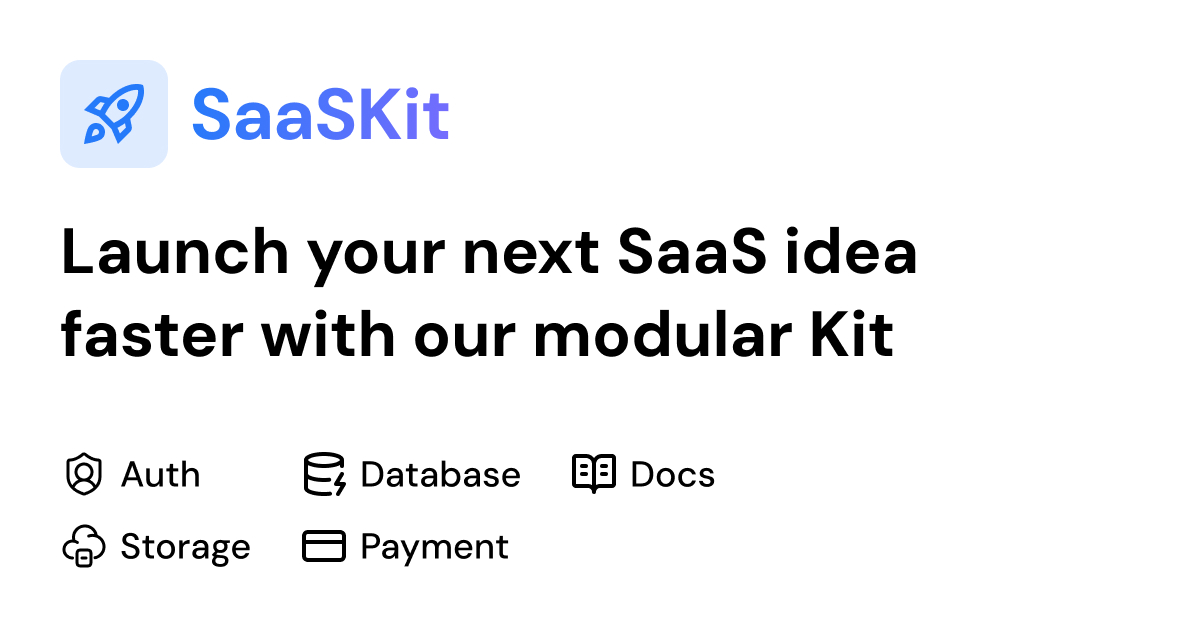
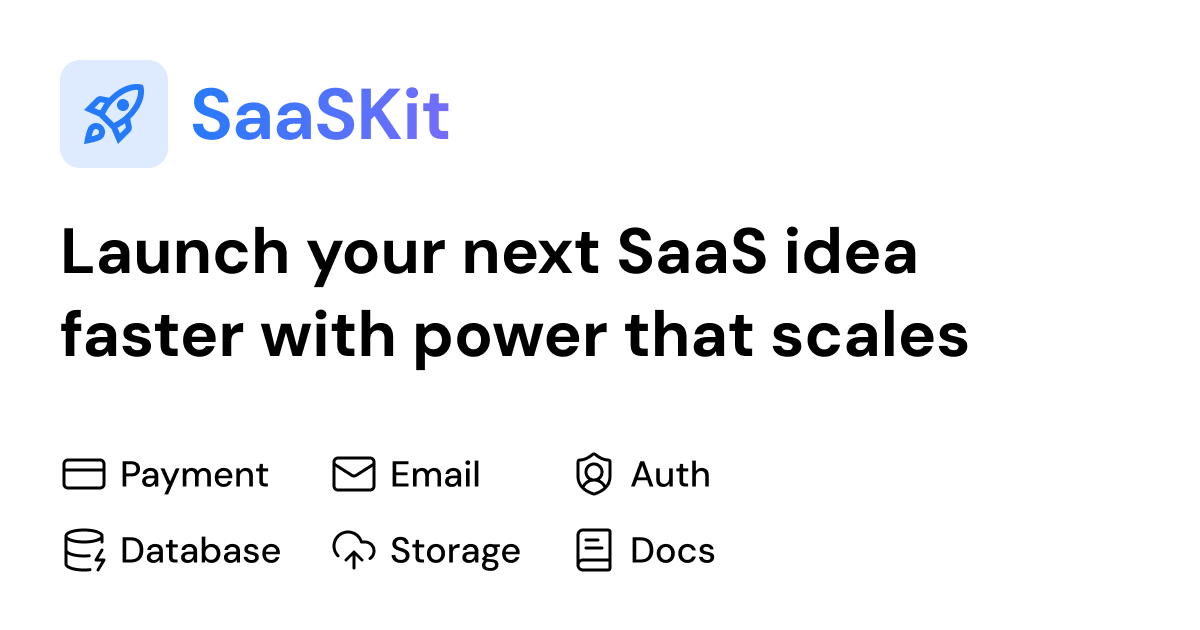
refactor(auth): replace custom session handling with better-auth integration

diff --git a/src/components/landing/Hero.tsx b/src/components/landing/Hero.tsx
@@ -12,14 +12,15 @@ export const Hero = () => {
                         className="border-base-300 flex items-center gap-2 rounded-full border px-3 py-0.5 text-sm font-medium"
                         href="#pricing">
                         <div className="bg-base-content/20 size-1.5 rounded-full"></div>
-                        <p>Rebrand + OSS Starter</p>
+                        <p>Think, Ship, Grow</p>
                     </a>
-                    <h1 className="mt-4 text-3xl leading-[1.25] font-bold tracking-tight text-balance sm:text-4xl md:text-5xl 2xl:text-7xl">
-                        Launch your next SaaS idea faster with our modular kit
+                    <h1 className="mt-4 text-3xl leading-tight font-bold tracking-tight text-balance sm:text-4xl md:text-5xl 2xl:text-7xl">
+                        Launch your next SaaS idea faster with power that scales
                     </h1>
-                    <h2 className="text-base-content/70 mt-4 text-sm text-balance sm:mt-6 sm:text-lg md:text-xl lg:mt-8">
-                        A production-ready TanStack starter with type-safe modules for core SaaS features. Skip the
-                        complex setup and launch your next great idea in just days.
+                    <h2 className="text-base-content/80 mt-4 max-w-6xl text-sm text-balance sm:mt-6 sm:text-lg md:text-xl lg:mt-8">
+                        Your all in one foundation for SaaS, built on{" "}
+                        <span className="text-base-content font-semibold">TanStack Start</span> with ready modules that
+                        help you launch in days instead of months for steady growth
                     </h2>
                     <div className="mt-6 flex flex-wrap justify-center gap-4 max-sm:items-center sm:mt-8 xl:mt-12 xl:gap-6 2xl:mt-16">
                         <Link to={Links.home} className="btn btn-primary btn-lg shadow-primary/10 gap-3 shadow-xl">

diff --git a/src/components/auth/SignInForm.tsx b/src/components/auth/SignInForm.tsx
@@ -8,7 +8,6 @@ import { z } from "zod";
 import { FormInput } from "@/components/forms/FormInput.tsx";
 import { FormPasswordInput } from "@/components/forms/FormPasswordInput.tsx";
 import { authClient } from "@/features/auth/client.ts";
-import { saveSessionUser } from "@/features/auth/server.ts";
 import { Links } from "@/lib/links.ts";
 
 const schema = z.object({
@@ -35,12 +34,6 @@ export const SignInForm = () => {
             startTransition(async () => {
                 const { data, error } = await authClient.signIn.email(value);
                 if (data) {
-                    await saveSessionUser({
-                        data: {
-                            user: data.user,
-                            token: data.token,
-                        },
-                    });
                     await navigate({ to: Links.home });
                 } else if (error) {
                     if (error.code === "INVALID_EMAIL") {

diff --git a/src/features/auth/server.ts b/src/features/auth/server.ts
@@ -1,22 +1,9 @@
 import { createServerFn } from "@tanstack/react-start";
+import { isAuthenticated } from "@/features/auth/authenticated.ts";
 
-import { authMiddleware } from "@/features/auth/middleware.ts";
-import { SessionData, useAppSession } from "@/lib/session.ts";
 
 export const getSessionUserOrRedirect = createServerFn({ method: "GET" })
-    .middleware([authMiddleware])
+    .middleware([isAuthenticated])
     .handler(async ({ context }) => {
         return { user: context.user };
     });
-
-export const saveSessionUser = createServerFn({ method: "POST" })
-    .inputValidator((data: SessionData) => data)
-    .handler(async ({ data }) => {
-        const session = await useAppSession();
-        await session.update(data);
-    });
-
-export const removeSessionUser = createServerFn({ method: "POST" }).handler(async () => {
-    const session = await useAppSession();
-    await session.clear();
-});

diff --git a/src/features/auth/authenticated.ts b/src/features/auth/authenticated.ts
@@ -1,0 +1,22 @@
+import { redirect } from "@tanstack/react-router";
+import { createMiddleware } from "@tanstack/react-start";
+import { getRequest, getRequestHeader } from "@tanstack/react-start/server";
+
+import { Links } from "@/lib/links";
+
+export const isAuthenticated = createMiddleware({ type: "function" }).server(async ({ next }) => {
+    const cookie = getRequestHeader("cookie") ?? getRequest()?.headers.get("cookie") ?? "";
+
+    const session = await (await import("@/features/auth/auth")).auth.api.getSession({ headers: { cookie } });
+
+    if (!session?.user || !session?.session.token) {
+        throw redirect({ to: Links.signIn, replace: true });
+    }
+
+    return next({
+        context: {
+            user: session.user,
+            token: session.session.token,
+        },
+    });
+});

diff --git a/src/features/auth/auth.ts b/src/features/auth/auth.ts
@@ -1,11 +1,15 @@
-import {betterAuth} from "better-auth";
+import { betterAuth } from "better-auth";
+import { tanstackStartCookies } from "better-auth/tanstack-start";
 import Database from "better-sqlite3";
-import {tanstackStartCookies} from "better-auth/tanstack-start";
 
 export const auth = betterAuth({
-    database: new Database("./sqlite.db"), baseURL: process.env.BASE_URL, logger: {
+    database: new Database("./sqlite.db"),
+    baseURL: process.env.BASE_URL,
+    logger: {
         log: console.log,
-    }, emailAndPassword: {
+    },
+    emailAndPassword: {
         enabled: true,
-    }, plugins: [tanstackStartCookies()],
+    },
+    plugins: [tanstackStartCookies()],
 });

diff --git a/src/routes/_auth/sign-out.tsx b/src/routes/_auth/sign-out.tsx
@@ -2,13 +2,11 @@ import { createFileRoute } from "@tanstack/react-router";
 import { redirect } from "@tanstack/router-core";
 
 import { authClient } from "@/features/auth/client.ts";
-import { removeSessionUser } from "@/features/auth/server.ts";
 import { Links } from "@/lib/links.ts";
 
 export const Route = createFileRoute("/_auth/sign-out")({
     loader: async () => {
         await authClient.signOut();
-        await removeSessionUser();
         throw redirect({ to: Links.signIn, replace: true });
     },
 });

diff --git a/src/features/auth/types.ts b/src/features/auth/types.ts
@@ -8,9 +8,3 @@ export type IUser = {
     updatedAt: Date;
 };
 
-declare module "@/lib/session" {
-    interface SessionData {
-        user?: IUser;
-        token?: string;
-    }
-}

diff --git a/README.md b/README.md
@@ -1,14 +1,33 @@
 ![og.jpg](public/og.jpg)
 
-SaaSKit is a modular starter kit designed to help developers quickly build and scale web applications.  
-It includes core features like authentication, database integration, storage, and documentation scaffolding—all structured for easy customization and extensibility.
+### **The Open Source boilerplate for TanStack Start & Better-Auth.**  
+
+Stop wasting 3-4 hours setting up the basics. SaaSKit Starter provides a production-ready foundation with Authentication and Admin Layouts pre-configured, so you can skip the setup and start building your SaaS.
+
+![TanStack Start](https://img.shields.io/badge/TanStack%20Start-blue)
+![Better Auth](https://img.shields.io/badge/Better--Auth-green)
+![Tailwind CSS](https://img.shields.io/badge/Tailwind-38B2AC)
+![TypeScript](https://img.shields.io/badge/TypeScript-3178C6)
+
+## ✨ Features
+
+- **TanStack Start Integrated:** Server-side rendering and static generation ready.
+- **Authentication Ready:** Complete **Better-Auth** setup with functional **Sign In** and **Sign Up** UIs.
+- **Admin Layout:** A responsive, sidebar-navigation layout ready for your dashboard.
+- **UI Components:** Styled with Tailwind CSS and **Lucide Icons**.
+- **Modular Architecture:** Designed to be easily extended or stripped down.
 
 ## Setup
 
 To get started, clone the repository and install dependencies:
 
 ```shell
-cd saaskit
+cd saaskit-starter
+```
+
+To migrate the database.
+```shell
+ npx @better-auth/cli@latest migrate --config=src/features/auth/auth.ts
 ```
 
 ```shell
